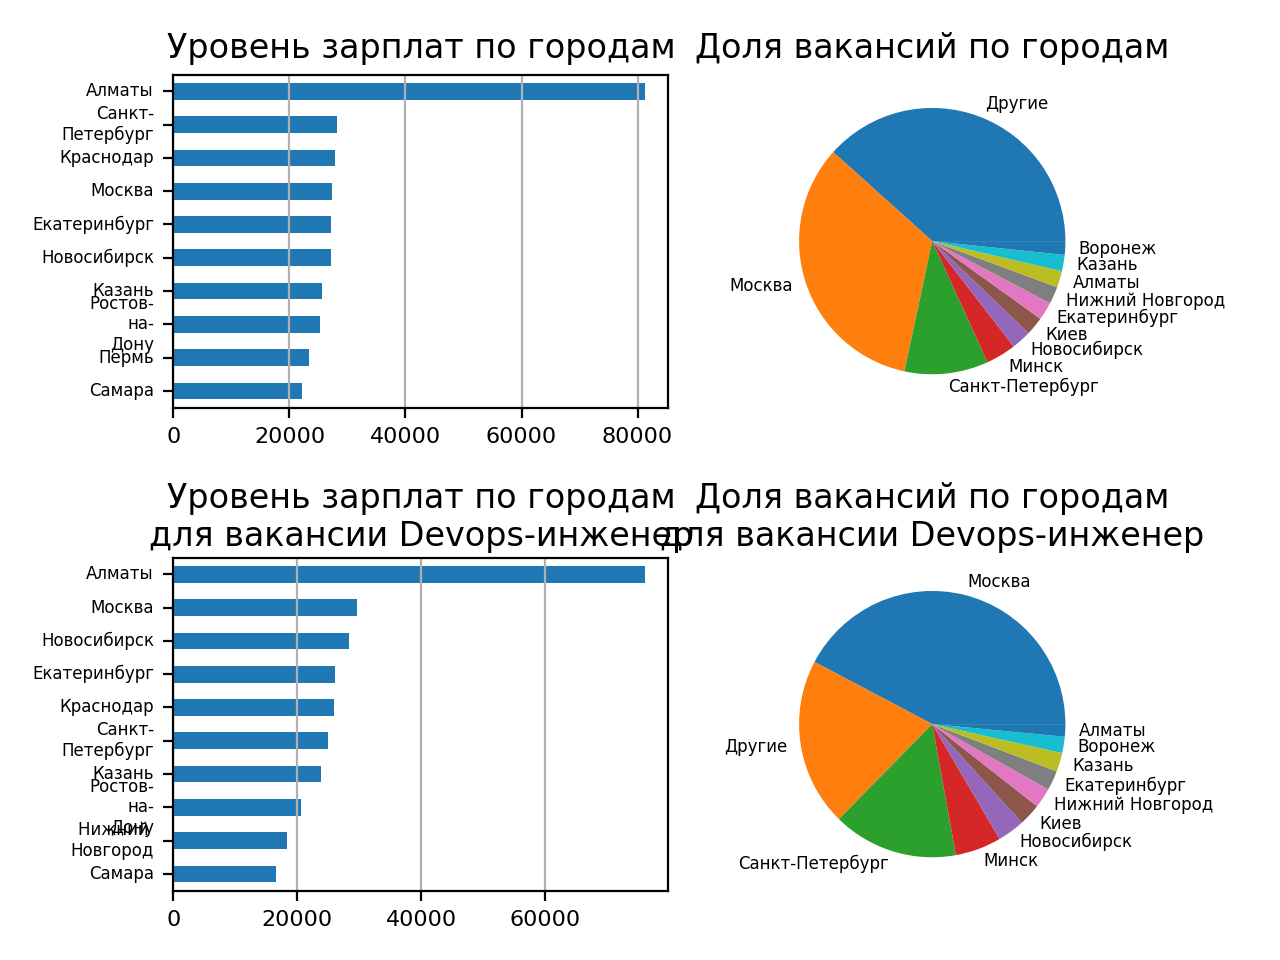
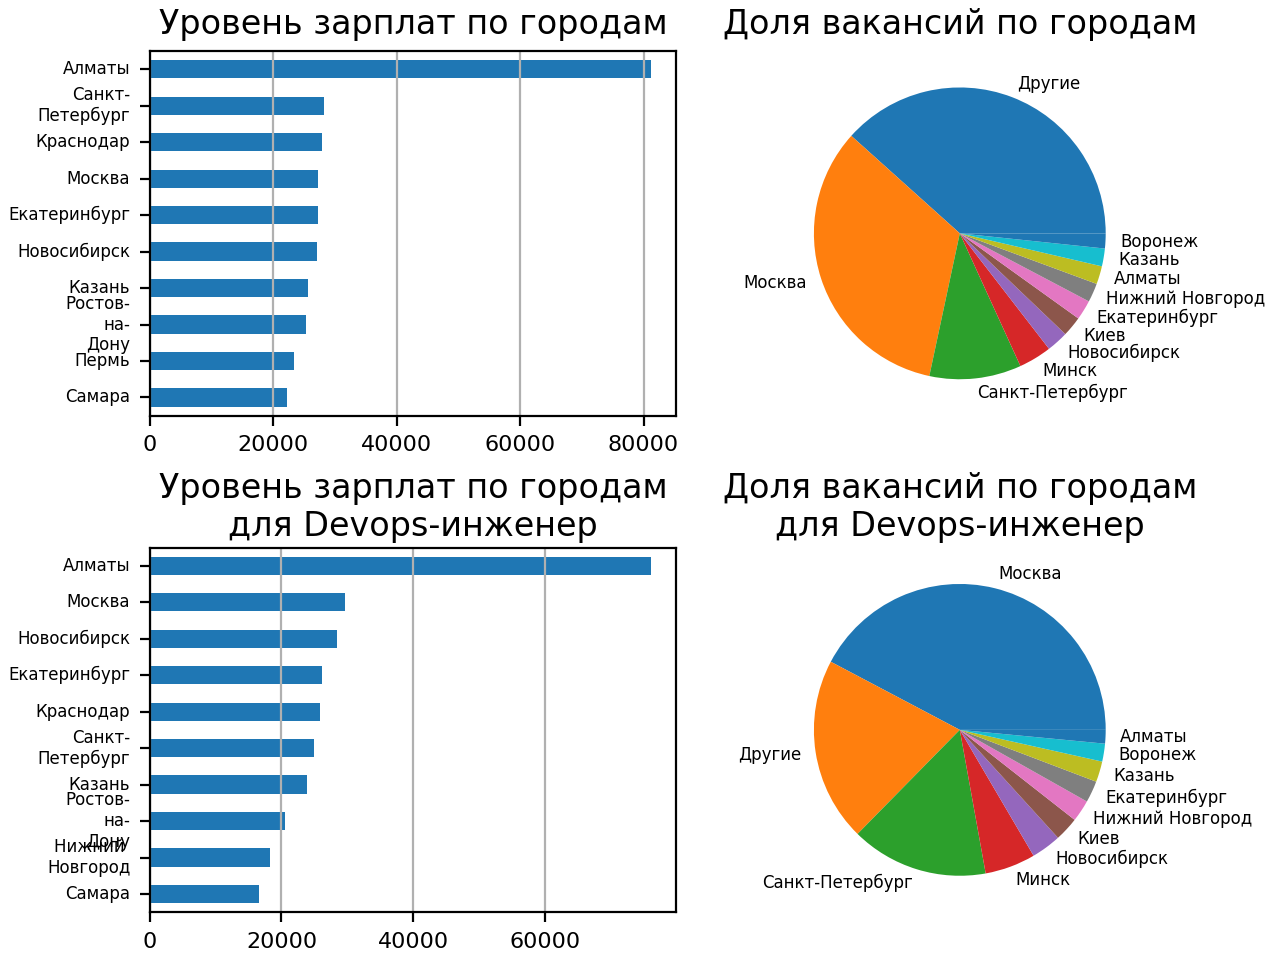
changed plots adjustment

Changed region(s): [[0.0, 0.5, 0.9688, 1.0], [0.0, 0.0, 0.9688, 0.4688], [0.6562, 0.625, 0.6875, 0.6562]]

diff --git a/src/csv_data/script.py b/src/csv_data/script.py
@@ -132,7 +132,7 @@ def create_report(filename: str, vacancy_name: str) -> [pd.DataFrame]:
 
 
 def create_relevance_data(report_data_by_years: pd.DataFrame, vacancy_name: str):
-    fig, sub = plt.subplots(2, 2)
+    fig, sub = plt.subplots(2, 2, layout="constrained")
 
     report_data_by_years[['Средняя з/п']].plot(ax=sub[0, 0], kind='bar')
     sub[0, 0].set_title('Динамика уровня зарплат по годам', wrap=True)
@@ -158,7 +158,6 @@ def create_relevance_data(report_data_by_years: pd.DataFrame, vacancy_name: str)
     sub[1, 1].legend(fontsize=8, loc='upper left')
     sub[1, 1].tick_params(labelsize=8)
 
-    fig.tight_layout()
     fig.savefig('relevance.png', dpi=200)
 
     return create_relevance_table(report_data_by_years, vacancy_name)
@@ -167,7 +166,7 @@ def create_relevance_data(report_data_by_years: pd.DataFrame, vacancy_name: str)
 def create_geography_data(report_data_by_cities: [pd.Series], vacancy_name: str):
     salaries_by_cities, salaries_by_cities_for_name = report_data_by_cities
 
-    fig, sub = plt.subplots(2, 2)
+    fig, sub = plt.subplots(2, 2, layout="constrained")
 
     salaries_by_cities[0].plot(ax=sub[0, 0], kind='barh').invert_yaxis()
     sub[0, 0].set_title('Уровень зарплат по городам', wrap=True)
@@ -184,7 +183,7 @@ def create_geography_data(report_data_by_cities: [pd.Series], vacancy_name: str)
     sub[0, 1].tick_params(labelsize=6)
 
     salaries_by_cities_for_name[0].plot(ax=sub[1, 0], kind='barh').invert_yaxis()
-    sub[1, 0].set_title(f'Уровень зарплат по городам\nдля вакансии {vacancy_name}', wrap=True)
+    sub[1, 0].set_title(f'Уровень зарплат по городам\nдля {vacancy_name}', wrap=True)
     sub[1, 0].grid(True, axis='x')
     sub[1, 0].tick_params(axis='y', labelsize=6)
     sub[1, 0].tick_params(axis='x', labelsize=8)
@@ -194,10 +193,9 @@ def create_geography_data(report_data_by_cities: [pd.Series], vacancy_name: str)
         ticklabel.set_va('center')
 
     salaries_by_cities_for_name[1].plot(ax=sub[1, 1], kind='pie', textprops={'fontsize': 6})
-    sub[1, 1].set_title(f'Доля вакансий по городам\nдля вакансии {vacancy_name}', wrap=True)
+    sub[1, 1].set_title(f'Доля вакансий по городам\nдля {vacancy_name}', wrap=True)
     sub[1, 1].tick_params(labelsize=6)
 
-    fig.tight_layout()
     fig.savefig('geography.png', dpi=200)
 
     first_table_data = create_salary_table(salaries_by_cities[0])

diff --git a/src/pages/router.py b/src/pages/router.py
@@ -46,11 +46,6 @@ async def get_skills_page(request: Request, session: AsyncSession = Depends(get_
     skills_page_values = await get_graphics_and_tables("skills", session)
     tables_names = ['ТОП-20 навыков по годам',
                     'ТОП-20 навыков по годам для выбранной профессии']
-    for table in skills_page_values:
-        for year in table:
-            print(year)
-            print(table[year])
-
     return templates.TemplateResponse("skills.html", {"request": request,
                                                       "tables": skills_page_values,
                                                       "tables_names": tables_names,
